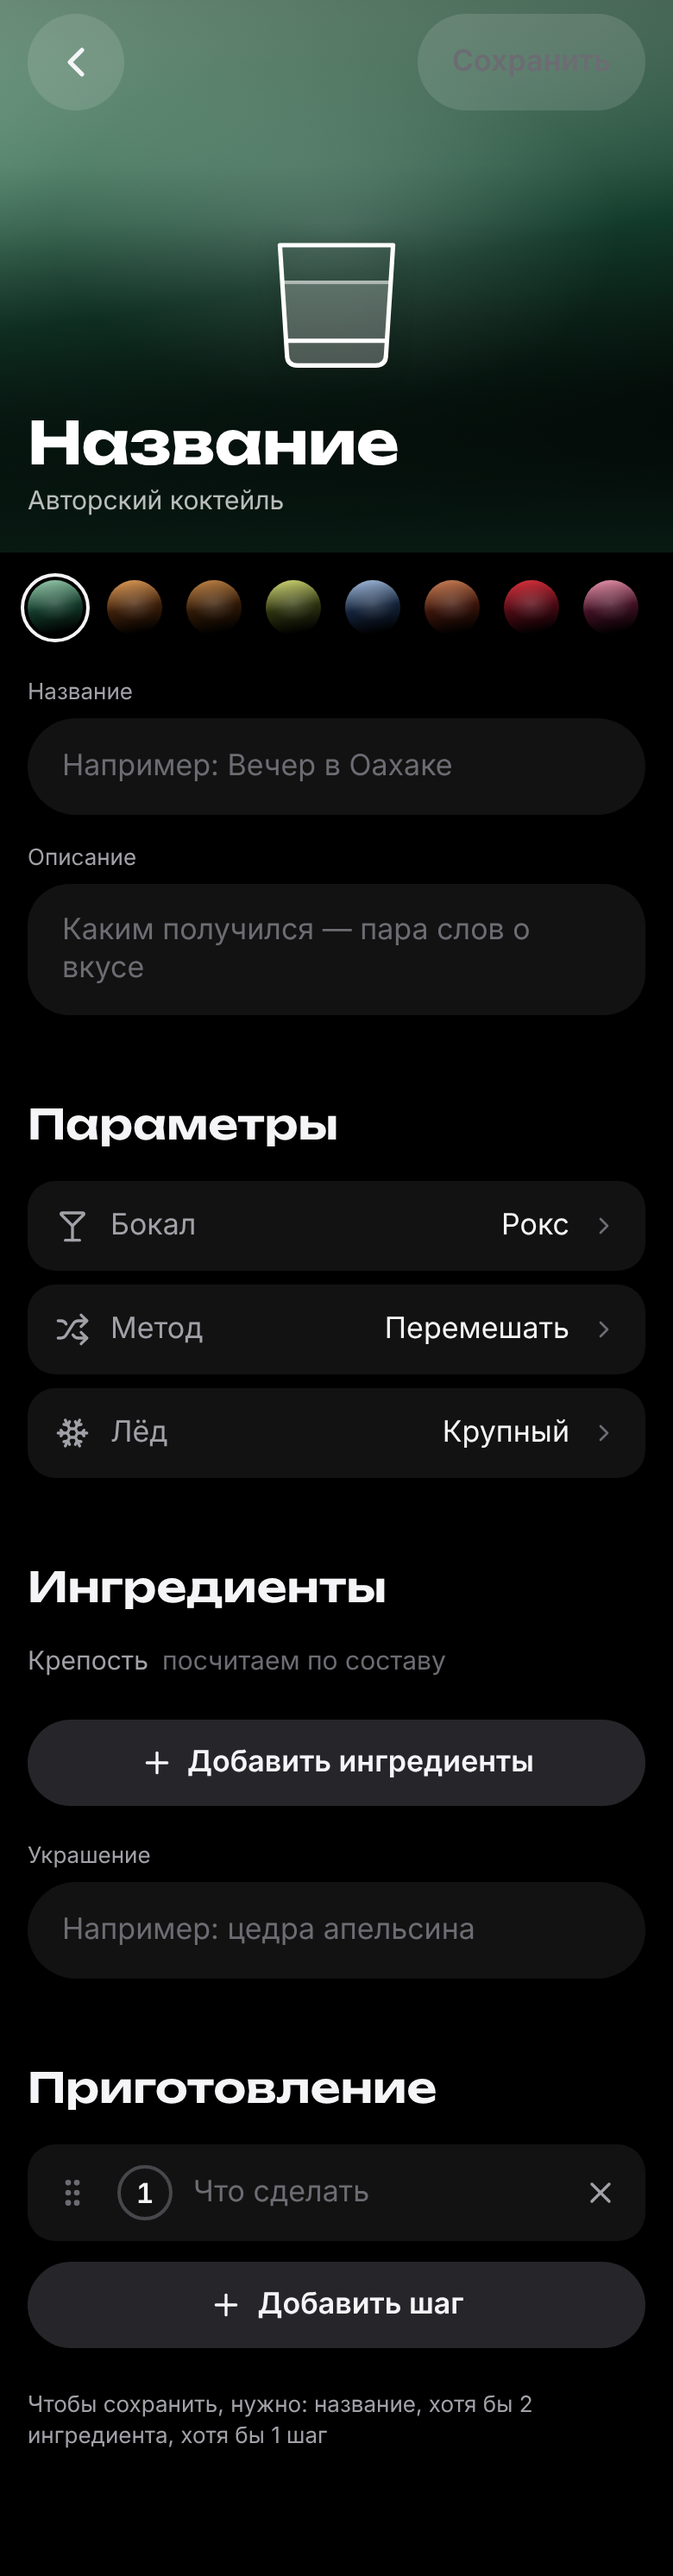
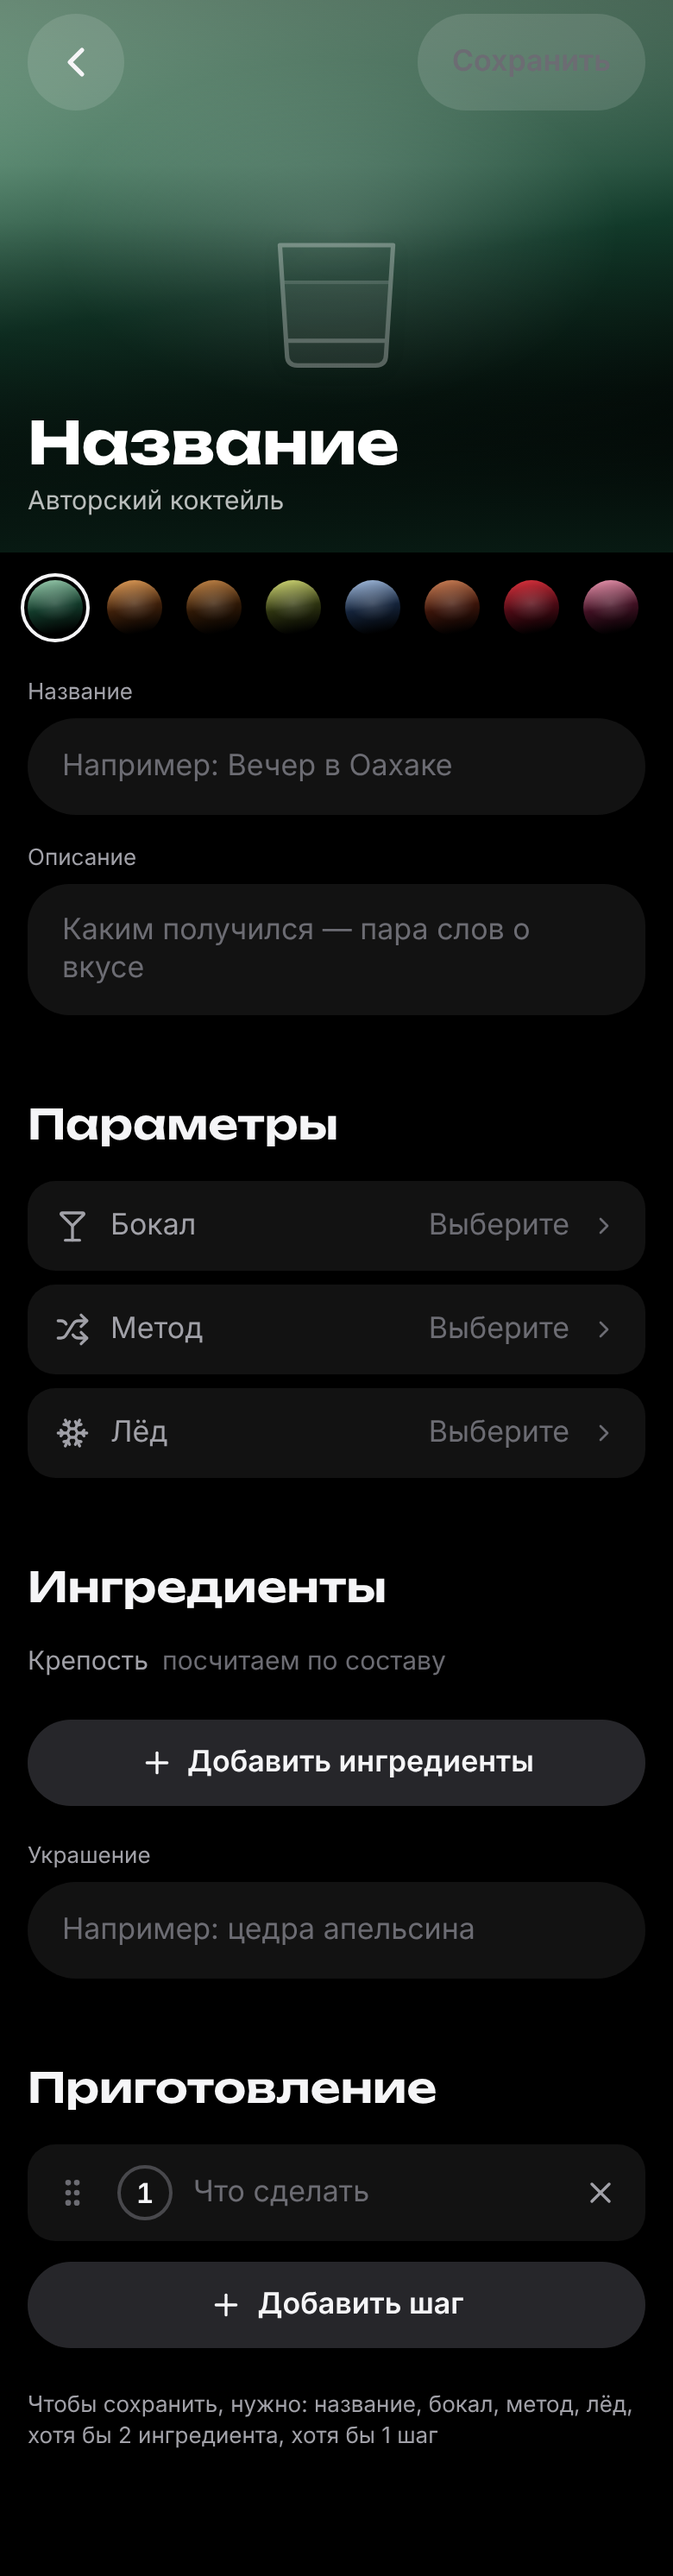
Редактор: бокал, метод и лёд по умолчанию пустые
Claude-Session: https://claude.ai/code/session_01CTSLijoM8Di1TL7d1o52Nz

diff --git a/src/lib/custom.ts b/src/lib/custom.ts
@@ -131,9 +131,10 @@ export type Draft = {
   name: string;
   description: string;
   base: Base;
-  glass: Glass;
-  method: Method;
-  ice: Ice;
+  /** null — ещё не выбрали: по умолчанию параметры пустые */
+  glass: Glass | null;
+  method: Method | null;
+  ice: Ice | null;
   garnish: string;
   cover: Cover;
   /** только ref из словаря */
@@ -145,9 +146,9 @@ export const EMPTY_DRAFT: Draft = {
   name: '',
   description: '',
   base: 'gin',
-  glass: 'rocks',
-  method: 'stir',
-  ice: 'big-cube',
+  glass: null,
+  method: null,
+  ice: null,
   garnish: '',
   cover: coverFor('gin'),
   ingredients: [],
@@ -158,6 +159,9 @@ export const EMPTY_DRAFT: Draft = {
 export function draftErrors(d: Draft): string[] {
   const out: string[] = [];
   if (!d.name.trim()) out.push('Название');
+  if (!d.glass) out.push('Бокал');
+  if (!d.method) out.push('Метод');
+  if (!d.ice) out.push('Лёд');
   if (d.ingredients.length < 2) out.push('Хотя бы 2 ингредиента');
   if (d.ingredients.some((i) => !getIngredient(i.ref))) out.push('Ингредиенты — только из справочника');
   if (d.ingredients.some((i) => i.unit !== 'top' && !(i.amountMl || i.amount))) out.push('Количество у каждого ингредиента');
@@ -165,12 +169,15 @@ export function draftErrors(d: Draft): string[] {
   return out;
 }
 
+/** Черновик → коктейль; сохраняется только полный (draftErrors пуст), подстановки ниже — лишь для превью */
 export function toCocktail(d: Draft, now = Date.now()): Cocktail {
+  const glass = d.glass ?? 'rocks';
+  const method = d.method ?? 'build';
   const ingredients = d.ingredients.map((i) => {
     const def = getIngredient(i.ref)!;
     return { ...i, name: def.name, category: CATEGORY[def.group] };
   });
-  const abv = computeAbv(ingredients, d.method, d.glass);
+  const abv = computeAbv(ingredients, method, glass);
   const steps = d.steps.map((s) => s.trim()).filter(Boolean);
   return {
     id: d.id ?? `my-${now.toString(36)}`,
@@ -178,10 +185,10 @@ export function toCocktail(d: Draft, now = Date.now()): Cocktail {
     nameEn: '',
     description: d.description.trim(),
     ingredients,
-    method: d.method,
+    method,
     steps,
-    glass: d.glass,
-    ice: d.ice,
+    glass,
+    ice: d.ice ?? 'none',
     garnish: d.garnish.trim() || undefined,
     abv,
     strength: strengthOf(abv),

diff --git a/src/pages/CocktailEditorPage.tsx b/src/pages/CocktailEditorPage.tsx
@@ -56,7 +56,9 @@ export function CocktailEditorPage() {
     });
   const dirty = JSON.stringify(d) !== JSON.stringify(initial);
   const errors = draftErrors(d);
-  const abv = d.ingredients.length ? computeAbv(d.ingredients, d.method, d.glass) : undefined;
+  // крепость зависит от метода (разбавление) и бокала (доливка) — без них не считаем
+  const abv = d.ingredients.length && d.method && d.glass ? computeAbv(d.ingredients, d.method, d.glass) : undefined;
+  const abvHint = !d.ingredients.length ? 'посчитаем по составу' : !d.method || !d.glass ? 'выберите бокал и метод' : undefined;
   const preview = toCocktail({ ...d, name: d.name || 'Название', ingredients: d.ingredients.filter((i) => i.ref) }, 0);
 
   const titleRef = useRef<HTMLHeadingElement>(null);
@@ -104,7 +106,7 @@ export function CocktailEditorPage() {
     closeSheet();
   };
   const param = (Object.keys(OPTIONS) as Param[]).find((p) => sheet === `pick-${p}`);
-  const value: Record<Param, string> = { glass: glassLabel(d.glass), method: methodLabel(d.method), ice: iceLabel(d.ice) };
+  const value: Record<Param, string | undefined> = { glass: d.glass ? glassLabel(d.glass) : undefined, method: d.method ? methodLabel(d.method) : undefined, ice: d.ice ? iceLabel(d.ice) : undefined };
 
   return (
     <main className="min-h-svh bg-bg pb-safe">
@@ -119,7 +121,7 @@ export function CocktailEditorPage() {
           </Button>
         }
       />
-      <CocktailHero cocktail={preview} titleRef={titleRef} height="preview" />
+      <CocktailHero cocktail={preview} titleRef={titleRef} height="preview" glassMuted={!d.glass} />
 
       <div className="mt-4 px-4">
         <ColorDots items={COVERS} value={d.cover} onChange={(cover) => (setManualCover(true), setD((x) => ({ ...x, cover })))} />
@@ -139,7 +141,7 @@ export function CocktailEditorPage() {
 
       <SectionHeader size="l" title="Ингредиенты" meta={d.ingredients.length || undefined} className="mt-10" />
       <div className="px-4">
-        <AbvLine abv={abv} strength={abv === undefined ? undefined : strengthOf(abv)} />
+        <AbvLine abv={abv} strength={abv === undefined ? undefined : strengthOf(abv)} hint={abvHint} />
       </div>
       {d.ingredients.length > 0 && (
         <ul className="mt-1 flex flex-col gap-2 px-4">

diff --git a/src/components/ui/CocktailHero.tsx b/src/components/ui/CocktailHero.tsx
@@ -15,13 +15,15 @@ type Props = {
   titleRef?: RefObject<HTMLHeadingElement | null>;
   /** screen — 55% высоты экрана; preview — уменьшенная, для витрины */
   height?: 'screen' | 'preview';
+  /** бокал ещё не выбран (превью редактора) — силуэт приглушён */
+  glassMuted?: boolean;
 };
 
 /**
  * Обложка рецепта: градиент напитка, крупный бокал, «Назад» на стекле, название поверх скрима.
  * Колонка: бокал занимает всё место над названием — длинное название уменьшает бокал, а не наезжает на него.
  */
-export function CocktailHero({ cocktail, onBack, action, titleRef, height = 'screen' }: Props) {
+export function CocktailHero({ cocktail, onBack, action, titleRef, height = 'screen', glassMuted }: Props) {
   return (
     <header
       className={cn('cover-gradient relative flex flex-col overflow-hidden', height === 'screen' ? 'h-hero pt-safe' : 'h-80 pt-3')}
@@ -34,7 +36,7 @@ export function CocktailHero({ cocktail, onBack, action, titleRef, height = 'scr
 
       {/* под кнопкой «Назад» (44) — отступ 48, бокал вписывается в оставшуюся высоту */}
       <div className="relative mt-12 mb-3 min-h-0 flex-1">
-        <GlassIllustration shape={cocktail.glass} className="absolute inset-0 size-full" />
+        <GlassIllustration shape={cocktail.glass} className={cn('absolute inset-0 size-full', glassMuted && 'opacity-30')} />
       </div>
 
       {onBack && (

diff --git a/src/components/ui/EditorFields.tsx b/src/components/ui/EditorFields.tsx
@@ -204,13 +204,13 @@ export function ColorDots({ items, value, onChange }: { items: { id: string; cov
   );
 }
 
-/** Живая крепость: «≈ 26% · Крепкий» — слово цветом шкалы; нет состава — подсказка */
-export function AbvLine({ abv, strength }: { abv?: number; strength?: Strength }) {
+/** Живая крепость: «≈ 26% · Крепкий» — слово цветом шкалы; не из чего считать — подсказка (hint) */
+export function AbvLine({ abv, strength, hint = 'посчитаем по составу' }: { abv?: number; strength?: Strength; hint?: string }) {
   return (
     <p className="flex min-h-tap items-center gap-2 text-subhead text-fg-2" aria-live="polite">
       Крепость
       {abv === undefined || !strength ? (
-        <span className="text-fg-3">посчитаем по составу</span>
+        <span className="text-fg-3">{hint}</span>
       ) : (
         <span>
           <span className="text-fg tabular-nums">≈ {abv}%</span> · <span className={cn('font-semibold', STRENGTH_TONE[strength])}>{strengthLabel(strength)}</span>

diff --git a/plan.md b/plan.md
@@ -124,6 +124,7 @@
 2. Крепость — считаем по пропорциям и типу алкоголя (`abv` в словаре + разбавление по методу), калибруем на базе.
 3. «Авторский» — в нижней строке карточки, рядом с «всё есть»; плашка крепости остаётся.
 4. Базу не выбирают — она считается по составу (крепкий с наибольшим объёмом, поровну — тот, что выше в списке; мескаль → текила) и нужна только фильтру «База»; цвет обложки следует за ней, пока его не выбрали вручную; количество нового ингредиента — как его чаще льют в базовых рецептах.
+6. Бокал, метод и лёд по умолчанию пустые («Выберите»): без них «Сохранить» недоступна, крепость ждёт бокал и метод, силуэт бокала в превью приглушён.
 5. В шторке выбора есть и «всегда есть» (сахар, вода) — их тоже нельзя добавить в бар, но рецепты без них не собрать.
 
 ## Backlog
